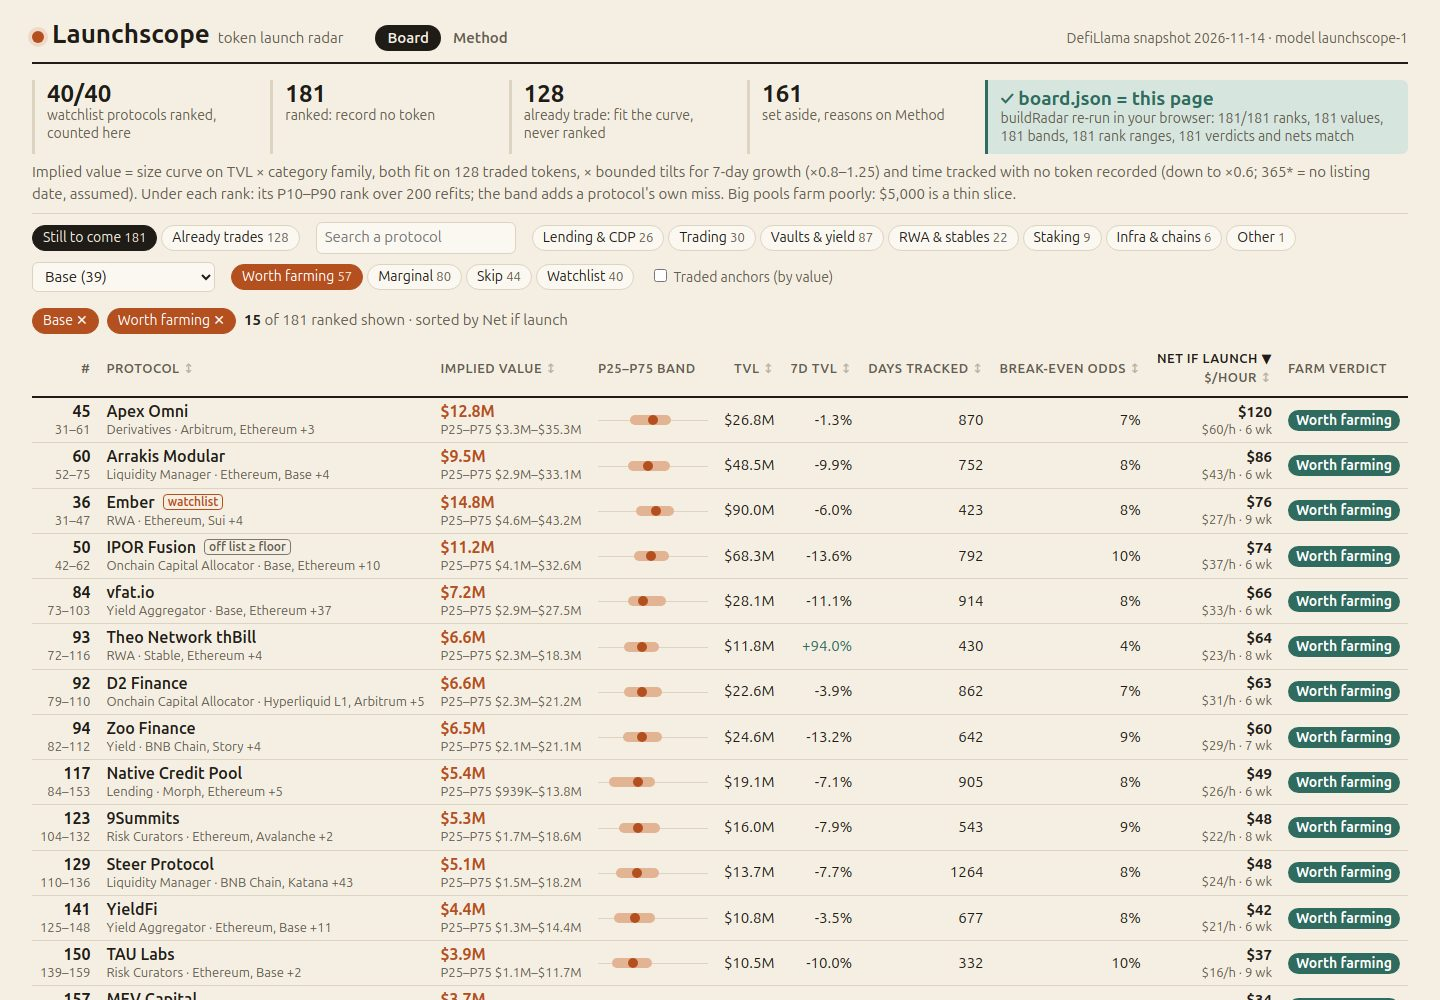
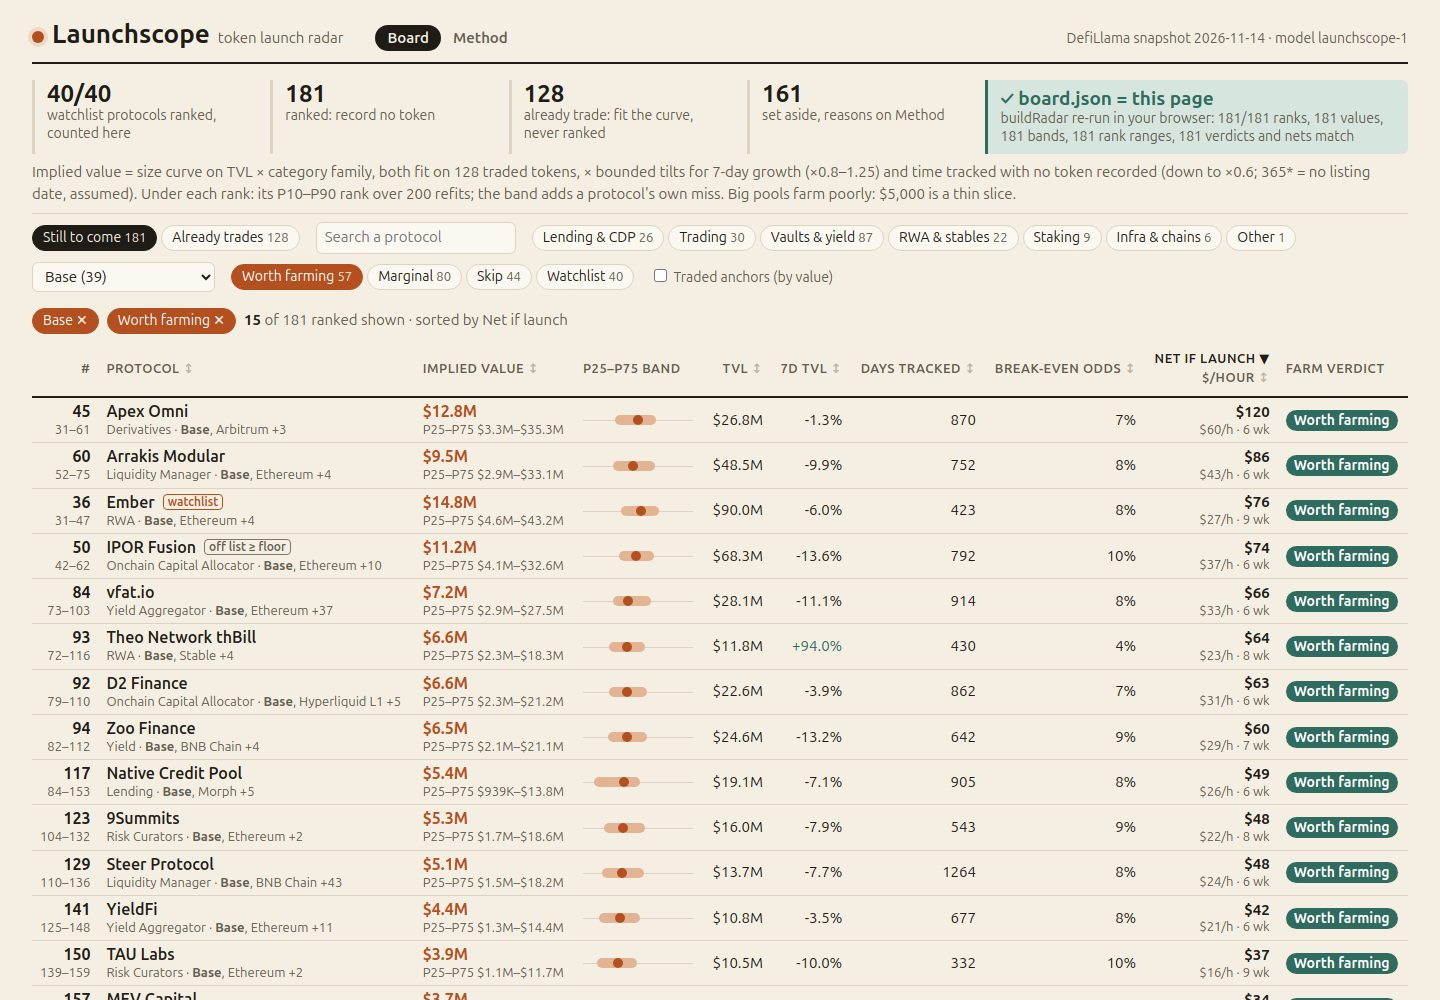
With a chain filter on, each row lists that chain first, in bold
Paid for by shorter model.js comments; source text stays uncut.

diff --git a/dashboard/radar.js b/dashboard/radar.js
@@ -99,12 +99,13 @@
   const lo = Math.log10(Math.min(...M.rows.map((r) => r.boot.p25))), span = Math.log10(Math.max(...M.rows.map((r) => r.boot.p75))) - lo;
   const at = (v) => Math.min(100, Math.max(0, (100 * (Math.log10(v) - lo)) / span));
   const bandBar = (r) => `<span class="bb"><i style="left:${at(r.boot.p25).toFixed(1)}%;width:${(at(r.boot.p75) - at(r.boot.p25)).toFixed(1)}%"></i><b style="left:${at(r.iv.value).toFixed(1)}%"></b></span>`;
+  let on = ''; // the chain filter, listed first in each row
   const NOTE_TAG = { above: 'off list ≥ floor', named: 'chain-named', shares: 'name shared' };
   function rowHtml(r) {
     const p = r.plan, tag = r.note && NOTE_TAG[r.note.split(' ')[0]];
     const net = p.net < 0 ? `<td class="num neg"><b>needs ${L.usd(r.iv.value * p.breakEven)}</b><small>launch value to pay</small></td>` : `<td class="num"><b>${L.usd(p.net)}</b><small>${L.usd(p.perHour)}/h · ${p.weeks} wk</small></td>`;
     return `<tr class="ranked" data-slug="${esc(r.slug)}"><td class="rk"><b>${r.rank}</b><small>${r.boot.rankLo}–${r.boot.rankHi}</small></td>
-      <td class="name"><a href="#p/${esc(r.slug)}">${esc(r.name)}</a>${r.watch ? '<i class="tag">watchlist</i>' : ''}${tag ? `<i class="tag grey" title="${esc(r.note)}">${tag}</i>` : ''}<small>${esc(r.category || 'no category')} · ${esc(r.chains.slice(0, 2).map(L.chainName).join(', '))}${r.chains.length > 2 ? ` +${r.chains.length - 2}` : ''}</small></td>
+      <td class="name"><a href="#p/${esc(r.slug)}">${esc(r.name)}</a>${r.watch ? '<i class="tag">watchlist</i>' : ''}${tag ? `<i class="tag grey" title="${esc(r.note)}">${tag}</i>` : ''}<small>${esc(r.category || 'no category')} · ${[on, ...r.chains.filter((c) => c !== on)].filter(Boolean).slice(0, 2).map((c) => (c === on ? `<b>${esc(L.chainName(c))}</b>` : esc(L.chainName(c)))).join(', ')}${r.chains.length > 2 ? ` +${r.chains.length - 2}` : ''}</small></td>
       <td class="val"><b>${L.usd(r.iv.value)}</b><small>P25–P75 ${L.usd(r.boot.p25)}–${L.usd(r.boot.p75)}</small></td><td>${bandBar(r)}</td>
       <td class="num">${L.usd(r.tvl_usd)}</td><td class="num ${r.change_7d > 0 ? 'up' : ''}">${pct(r.change_7d)}</td><td class="num" title="${r.iv.days === null ? 'no listing date: 365 assumed' : ''}">${r.iv.days === null ? '365*' : r.iv.days}</td>
       <td class="num">${odds(p.breakEven)}</td>${net}<td><i class="verdict v-${p.verdict}">${L.VERDICT_LABEL[p.verdict]}</i></td></tr>`;
@@ -165,6 +166,7 @@
 
   function renderResults(st) {
     if (st.tab === 'traded') { $('#results').innerHTML = tradedHtml(st); return; }
+    on = st.chain;
     const shown = sortRows(filterRows(M.rows, st), st);
     const anchors = anchorsFor(shown, st);
     const body = [];

diff --git a/dashboard/model.js b/dashboard/model.js
@@ -102,9 +102,9 @@
   const VERSIONED = /\s(V\d+(\.\d+)?|v\d+(\.\d+)?|\d+\.\d+)$/;
   const WRAP_WORD = /\b(wrapped|staked|staking)\b/i;
   const EXCHANGE_NAME = /^(Binance|Coinbase|Bybit|Kraken|Bitget|OKX|Bitfinex|Gemini)\b/i;
-  // Our two additions: a chain's own trading venue ("XRPL DEX"), and a name shared with a token-bearing protocol.
+  // Our additions: chain venues ("XRPL DEX"), names shared with a token-bearing protocol.
   const CHAIN_VENUE = /^\S+ (DEX|AMM)$/i;
-  // First words that tie no two protocols together; every chain's first word joins them from the data.
+  // Words too common to link two names; chain names join them from the data.
   const GENERIC_WORDS = 'the liquid btc eth usd yield finance protocol network capital labs dao earn vault vaults lending dex bridge pool project stake native super open one prime'.split(' ');
   const firstWord = (s) => s.toLowerCase().split(/[^a-z0-9.]+/).filter(Boolean)[0] || '';
 
@@ -195,7 +195,7 @@
     if (opts.families) {
       const sum = {}, count = {};
       for (const pt of points) {
-        // Each miss is clipped at 10x (1 in log10), so one odd token cannot set its family's offset.
+        // Each miss capped at 10x, so one odd token cannot set its family.
         sum[pt.fam] = (sum[pt.fam] || 0) + clamp(pt.y - a - b * pt.x, -1, 1);
         count[pt.fam] = (count[pt.fam] || 0) + 1;
       }
@@ -231,12 +231,12 @@
     return 1 - (6 * ra.reduce((s, x, i) => s + (x - rb[i]) ** 2, 0)) / (n * (n * n - 1));
   }
 
-  /** Each traded token predicted by a fit that never saw it, for each nested variant of the model. */
+  /** Each traded token priced by a fit that never saw it, per variant. */
   function looCheck(traded, asOf) {
     return VARIANTS.map((v) => {
       const pts = fitPoints(traded, asOf, v.priors);
       const miss = pts.map((pt, i) => Math.abs(pt.y - predictLog(fitCurve(pts.filter((_, j) => j !== i), v), pt.x, pt.fam)));
-      // The ranking itself, out of sample: Spearman's rho inside each of 8 fixed held-out folds, averaged.
+      // The ranking out of sample: Spearman's rho in 8 fixed folds, averaged.
       let rankCorr = 0;
       for (let f = 0; f < 8; f++) {
         const fit = fitCurve(pts.filter((_, j) => j % 8 !== f), v), held = pts.filter((_, j) => j % 8 === f);
